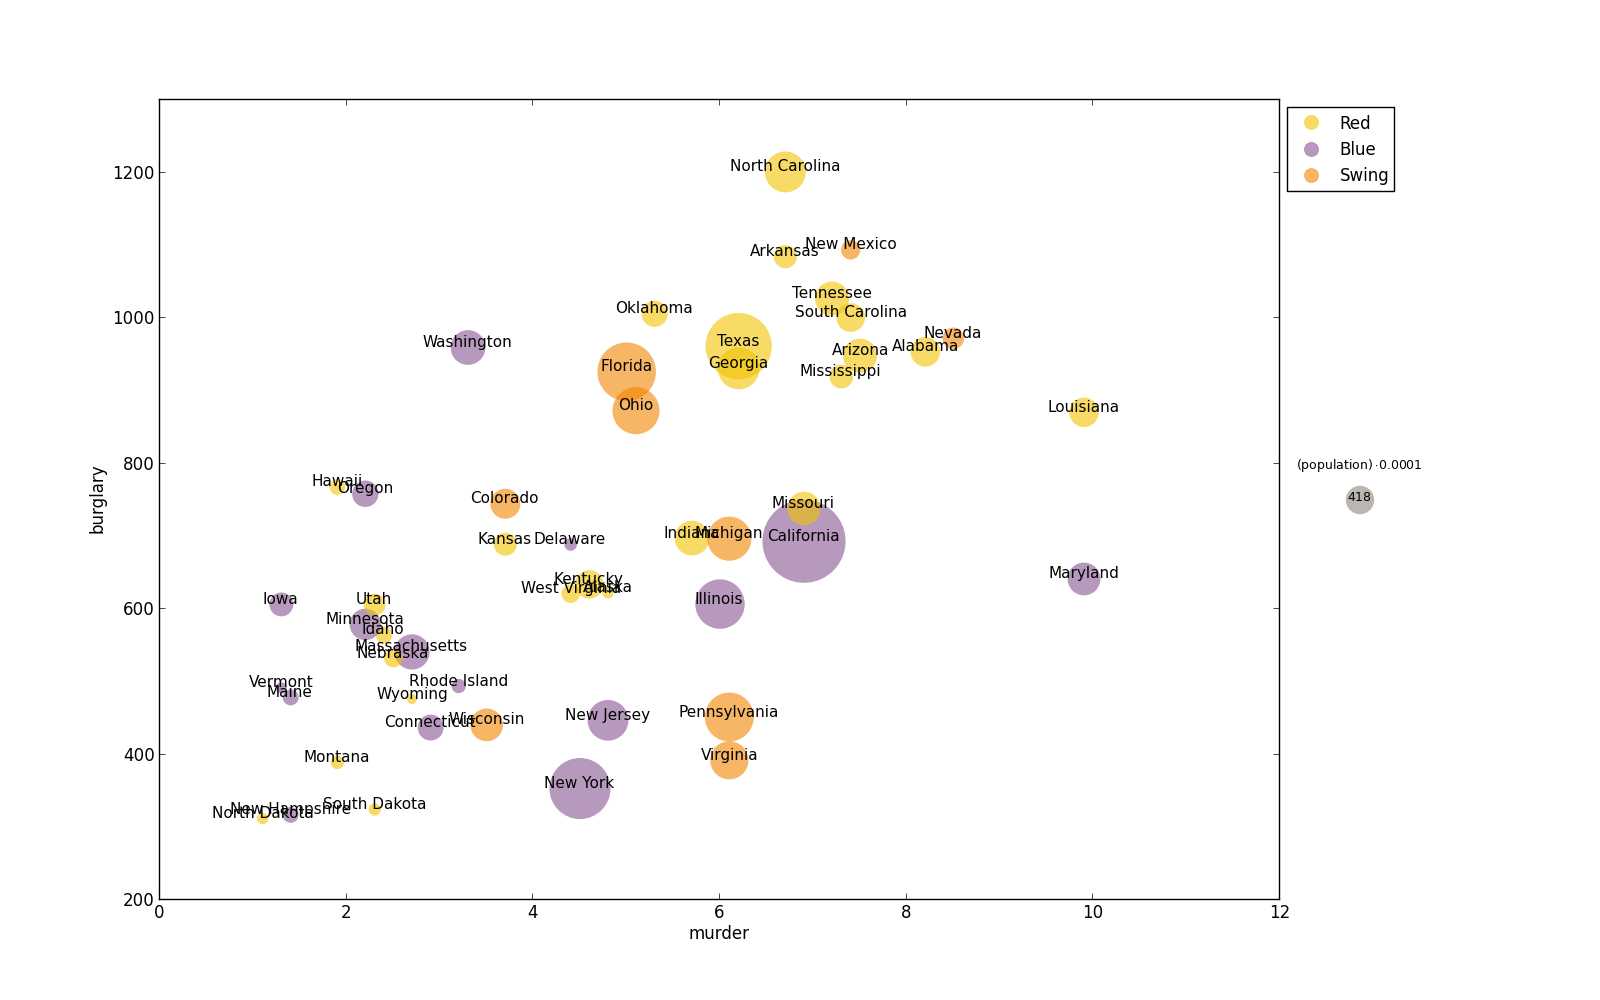
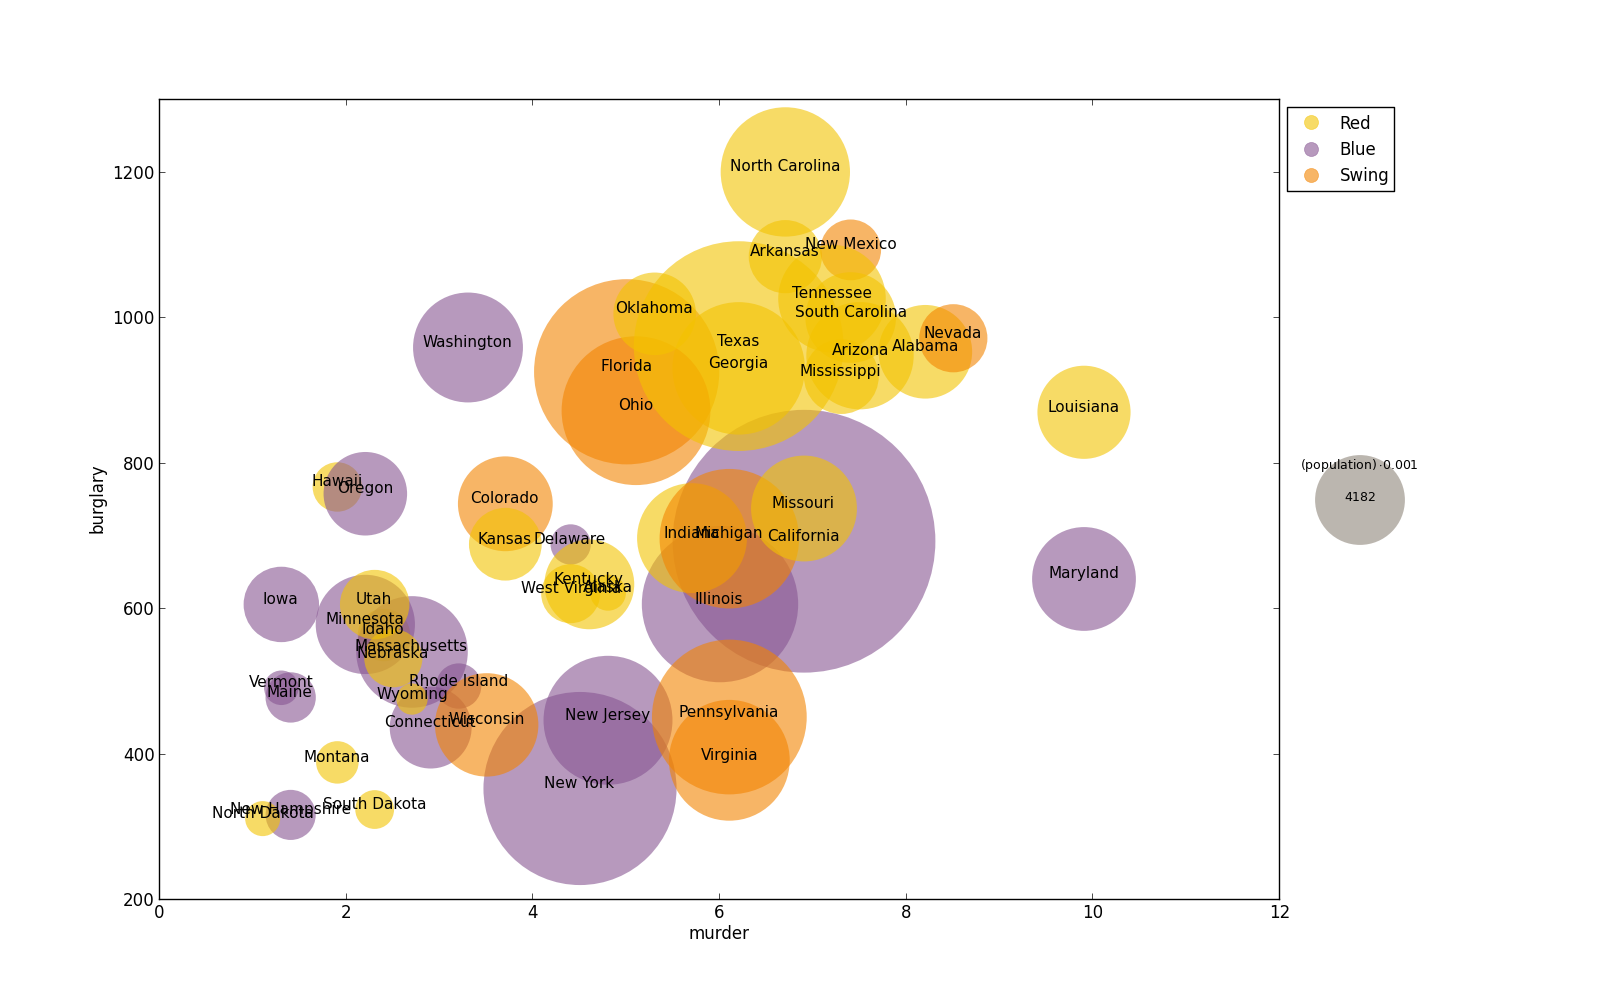
...

Changed region(s): [[0.125, 0.093, 0.7188, 0.899], [0.625, 0.527, 0.7188, 0.651], [0.8125, 0.434, 0.875, 0.558]]

diff --git a/bubble.py b/bubble.py
@@ -26,7 +26,7 @@ OUTPUT_FORMAT = 'png'
 ##-------------------------------------------------------------------
 # Maximally distinct colors
 # Ref: http://stackoverflow.com/questions/470690/how-to-automatically-generate-n-distinct-colors
-COLORS = [('#f3c300', 'Vivid Yellow'), ('#875692', 'Strong Purple'), ('#f38400', 'Vivid Orange'), ('#a1caf1', 'Very Light Blue'), ('#be0032', 'Vivid Red'), ('#c2b280', 'Grayish Yellow'), ('#848482', 'Medium Gray'), ('#008856', 'Vivid Green'), ('#e68fac', 'Strong Purplish Pink'), ('#0067a5', 'Strong Blue'), ('#f99379', 'Strong Yellowish Pink'), ('#604e97', 'Strong Violet'), ('#f6a600', 'Vivid Orange Yellow'), ('#b3446c', 'Strong Purplish Red'), ('#dcd300', 'Vivid Greenish Yellow'), ('#882d17', 'Strong Reddish Brown'), ('#27a64c', 'Vivid Yellowish Green'), ('#654522', 'Deep Yellowish Brown'), ('#e25822', 'Vivid Reddish Orange'), ('#2b3d26', 'Dark Olive Green')]
+COLORS = [('#f3c300', 'Vivid Yellow',1), ('#875692', 'Strong Purple',2), ('#f38400', 'Vivid Orange',3), ('#a1caf1', 'Very Light Blue',4), ('#be0032', 'Vivid Red',5), ('#c2b280', 'Grayish Yellow',6), ('#848482', 'Medium Gray',7), ('#008856', 'Vivid Green',8), ('#e68fac', 'Strong Purplish Pink',9), ('#0067a5', 'Strong Blue',10), ('#f99379', 'Strong Yellowish Pink',11), ('#604e97', 'Strong Violet',12), ('#f6a600', 'Vivid Orange Yellow',13), ('#b3446c', 'Strong Purplish Red',14), ('#dcd300', 'Vivid Greenish Yellow',15), ('#882d17', 'Strong Reddish Brown',16), ('#27a64c', 'Vivid Yellowish Green',17), ('#654522', 'Deep Yellowish Brown',18), ('#e25822', 'Vivid Reddish Orange',19), ('#2b3d26', 'Dark Olive Green',20)]
 
 Categories = []
 All_Z = []

diff --git a/README.md b/README.md
@@ -43,7 +43,7 @@ python bubble.py crimeRatesByState2005.csv murder burglary population -t mul .00
 
 + Label data point with state names.  Resize figure to increase readability.
 ```
-python bubble.py crimeRatesByState2005.csv murder burglary population -t mul .0001 -l state --figsize 16 10 --ranges 0 12 200 1300 --label_axes -g politics --legend_bubble 5 2 --legend 0.2 0 0
+python bubble.py crimeRatesByState2005.csv murder burglary population -t mul .001 --ranges 0 12 200 1300 --label_axes -c politics --legend_bubble 5 2 --figsize 16 10 -l state
 ```
 <img src="output/ex6.png">
 
